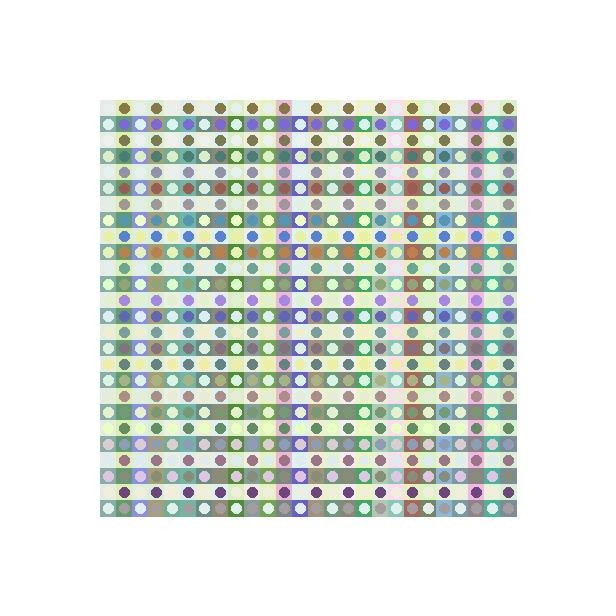
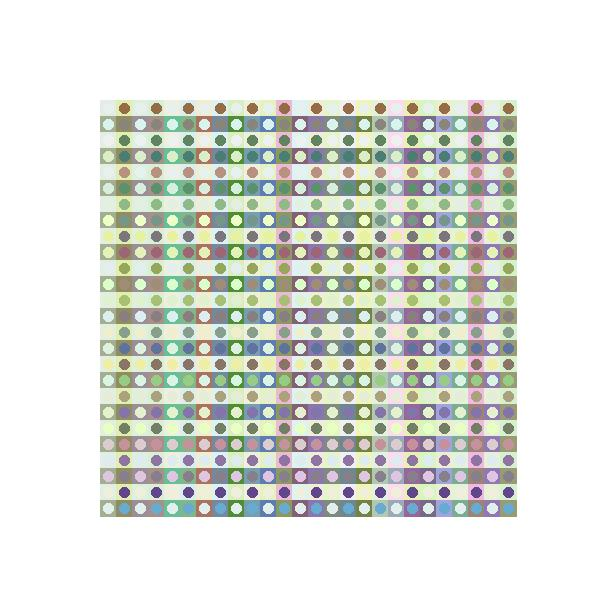
Working on 2025 Gen29c...

Changed region(s): [[0.401, 0.1851, 0.8636, 0.8636], [0.1542, 0.1851, 0.3701, 0.8636]]

diff --git a/code/2025/gen.py b/code/2025/gen.py
@@ -114,51 +114,45 @@ def gen_29b(sq_size, mg, grid_size, background, text, name):
 	canvas.save("assets/img/", "gen29b_" + name)
 	print("I saved a Gen29b piece!", end="\n")
 
-def gen_29c(sq_size, mg, grid_size, background, text, name):
+def gen_29c(sq_size, mg, lw, color, background, word_a, word_b, name):
 	"The function to create a beautiful grid based on text..."
 	
-	#Then we make sure that text length is divisible by 2...
-	if not len(text)%(2) == 0:
-		text += " "
-
-	#Now we need some variables...
-	text_center = len(text)//2 #Half of the text for rows, half for columns...
-	l_w = sq_size[0]//9
+	#We check our sizes...
+	grid_a = len(word_a)
+	grid_b = len(word_b)
 
 	#Here we have two matrices to save the color of cells and two matrices to control future average calculation...
-	row_matrix = [[[background[0],background[1],background[2]] for i in range(grid_size)] for i in range(grid_size)]
-	row_control = [[[1,1,1] for i in range(grid_size)] for i in range(grid_size)]
-	col_matrix = [[[background[0],background[1],background[2]] for i in range(grid_size)] for i in range(grid_size)]
-	col_control = [[[1,1,1] for i in range(grid_size)] for i in range(grid_size)]
-	
-	#We use the first half of the text to decide vertical pattern...
-	for i in range(text_center):
-		ch, v = ut.symbol_to_color_data(text[i])
-		is_v = ut.is_vowel(text[i])
-		for r in range(grid_size//2):
-			row_matrix[i%grid_size][2*r+is_v][ch] += v
-			row_control[i%grid_size][2*r+is_v][ch] += 1
+	row_matrix = [[[background[0],background[1],background[2]] for i in range(grid_a)] for i in range(grid_b)]
+	col_matrix = [[[background[0],background[1],background[2]] for i in range(grid_a)] for i in range(grid_b)]
 
-	#We use the second half of the text to decide horizontal pattern...
-	for i in range(text_center):
-		ch, v = ut.symbol_to_color_data(text[text_center+i])
-		is_v = ut.is_vowel(text[text_center+i])
-		for c in range(grid_size//2):
-			col_matrix[2*c+is_v][i%grid_size][ch] += v
-			col_control[2*c+is_v][i%grid_size][ch] += 1
+	#We start with the user's color...
+	actual_color = color
 	
-	#Now we calculate average value for each color channel in each cell...
-	ut.control_color_average_matrix(row_matrix, row_control)
-	ut.control_color_average_matrix(col_matrix, col_control)
+	#We use the first word to decide vertical pattern...
+	for i in range(grid_a):
+		is_v = ut.is_vowel(word_a[i])
+		actual_color = ut.move_color(actual_color, 25)
+		for r in range(grid_b//2):
+			row_matrix[2*r+is_v][i] = actual_color
+
+	#We reset the color for the columns...
+	actual_color = color
+
+	#We use the second word to decide horizontal pattern...
+	for i in range(grid_b):
+		is_v = ut.is_vowel(word_b[i])
+		actual_color = ut.move_color(actual_color, 25)
+		for c in range(grid_a//2):
+			col_matrix[i][2*c+is_v] = actual_color
 
 	#We need a canvas now...
-	canvas = DCanvas(sq_size[1] * grid_size + mg[1] * 2, sq_size[0] * grid_size + mg[0] * 2, background)
+	canvas = DCanvas(sq_size[1] * grid_a + mg[1] * 2, sq_size[0] * grid_b + mg[0] * 2, background)
 
 	#We are ready to draw our canvas...
-	for r in range(grid_size):
-		for c in range(grid_size):
-				canvas.draw_line(ut.get_color_tuple(row_matrix[r][c]), l_w, (r*sq_size[1]+mg[1],c*sq_size[0]+mg[0]), (r*sq_size[1]+mg[1], (c+1)*sq_size[0]+mg[0]))
-				canvas.draw_line(ut.get_color_tuple(col_matrix[r][c]), l_w, (r*sq_size[1]+mg[1], c*sq_size[0]+mg[0]), ((r+1)*sq_size[1]+mg[1], c*sq_size[0]+mg[0]))
+	for r in range(1,grid_a):
+		for c in range(1,grid_b):
+				canvas.draw_line(ut.get_color_tuple(row_matrix[c][r]), lw, (r*sq_size[1]+mg[1],c*sq_size[0]+mg[0]), (r*sq_size[1]+mg[1], (c+1)*sq_size[0]+mg[0]))
+				canvas.draw_line(ut.get_color_tuple(col_matrix[c][r]), lw, (r*sq_size[1]+mg[1], c*sq_size[0]+mg[0]), ((r+1)*sq_size[1]+mg[1], c*sq_size[0]+mg[0]))
 
 	#We save our result...
 	canvas.save("assets/img/", "gen29c_" + name)

diff --git a/code/2025/ex_trigger.py b/code/2025/ex_trigger.py
@@ -11,5 +11,5 @@ text = open("assets/input/borges_remordimiento.txt").read()
 gen.gen_29((45,45), (100,100), 8, (255,255,255), text, "name")
 #gen_29((sq_size_h,sq_size_w),(mh,mw), grid_size, background, text, name)
 gen.gen_29b((45,45), (100,100), 8, (255,255,255), text, "name")
-#gen_29((sq_size_h,sq_size_w),(mh,mw), grid_size, background, text, name)
-gen.gen_29c((45,45), (100,100), 8, (255,255,255), text, "name")
+#gen_29((sq_size_h,sq_size_w),(mh,mw), line_width, color, background, word_a, word_b, name)
+gen.gen_29c((32,32), (100,100), 4, (128,128,128), (255,255,255), "hitomezashi", "pattern", "name")

diff --git a/code/2022/gen_4.py b/code/2022/gen_4.py
@@ -85,7 +85,7 @@ class Gen4():
 					else:
 						s = math.sin(0.1 * t) * self.cd
 						np = self.get_new_point(p, a, s)
-						self.canvas.draw_circle(self.colors[l%c_count], (np[0]+self.margins[1],np[1]+self.margins[0]), s)
+						self.canvas.draw_circle(self.colors[l%c_count], (np[0]+self.margins[1],np[1]+self.margins[0]), abs(s))
 					p = np
 				t += 1
 
